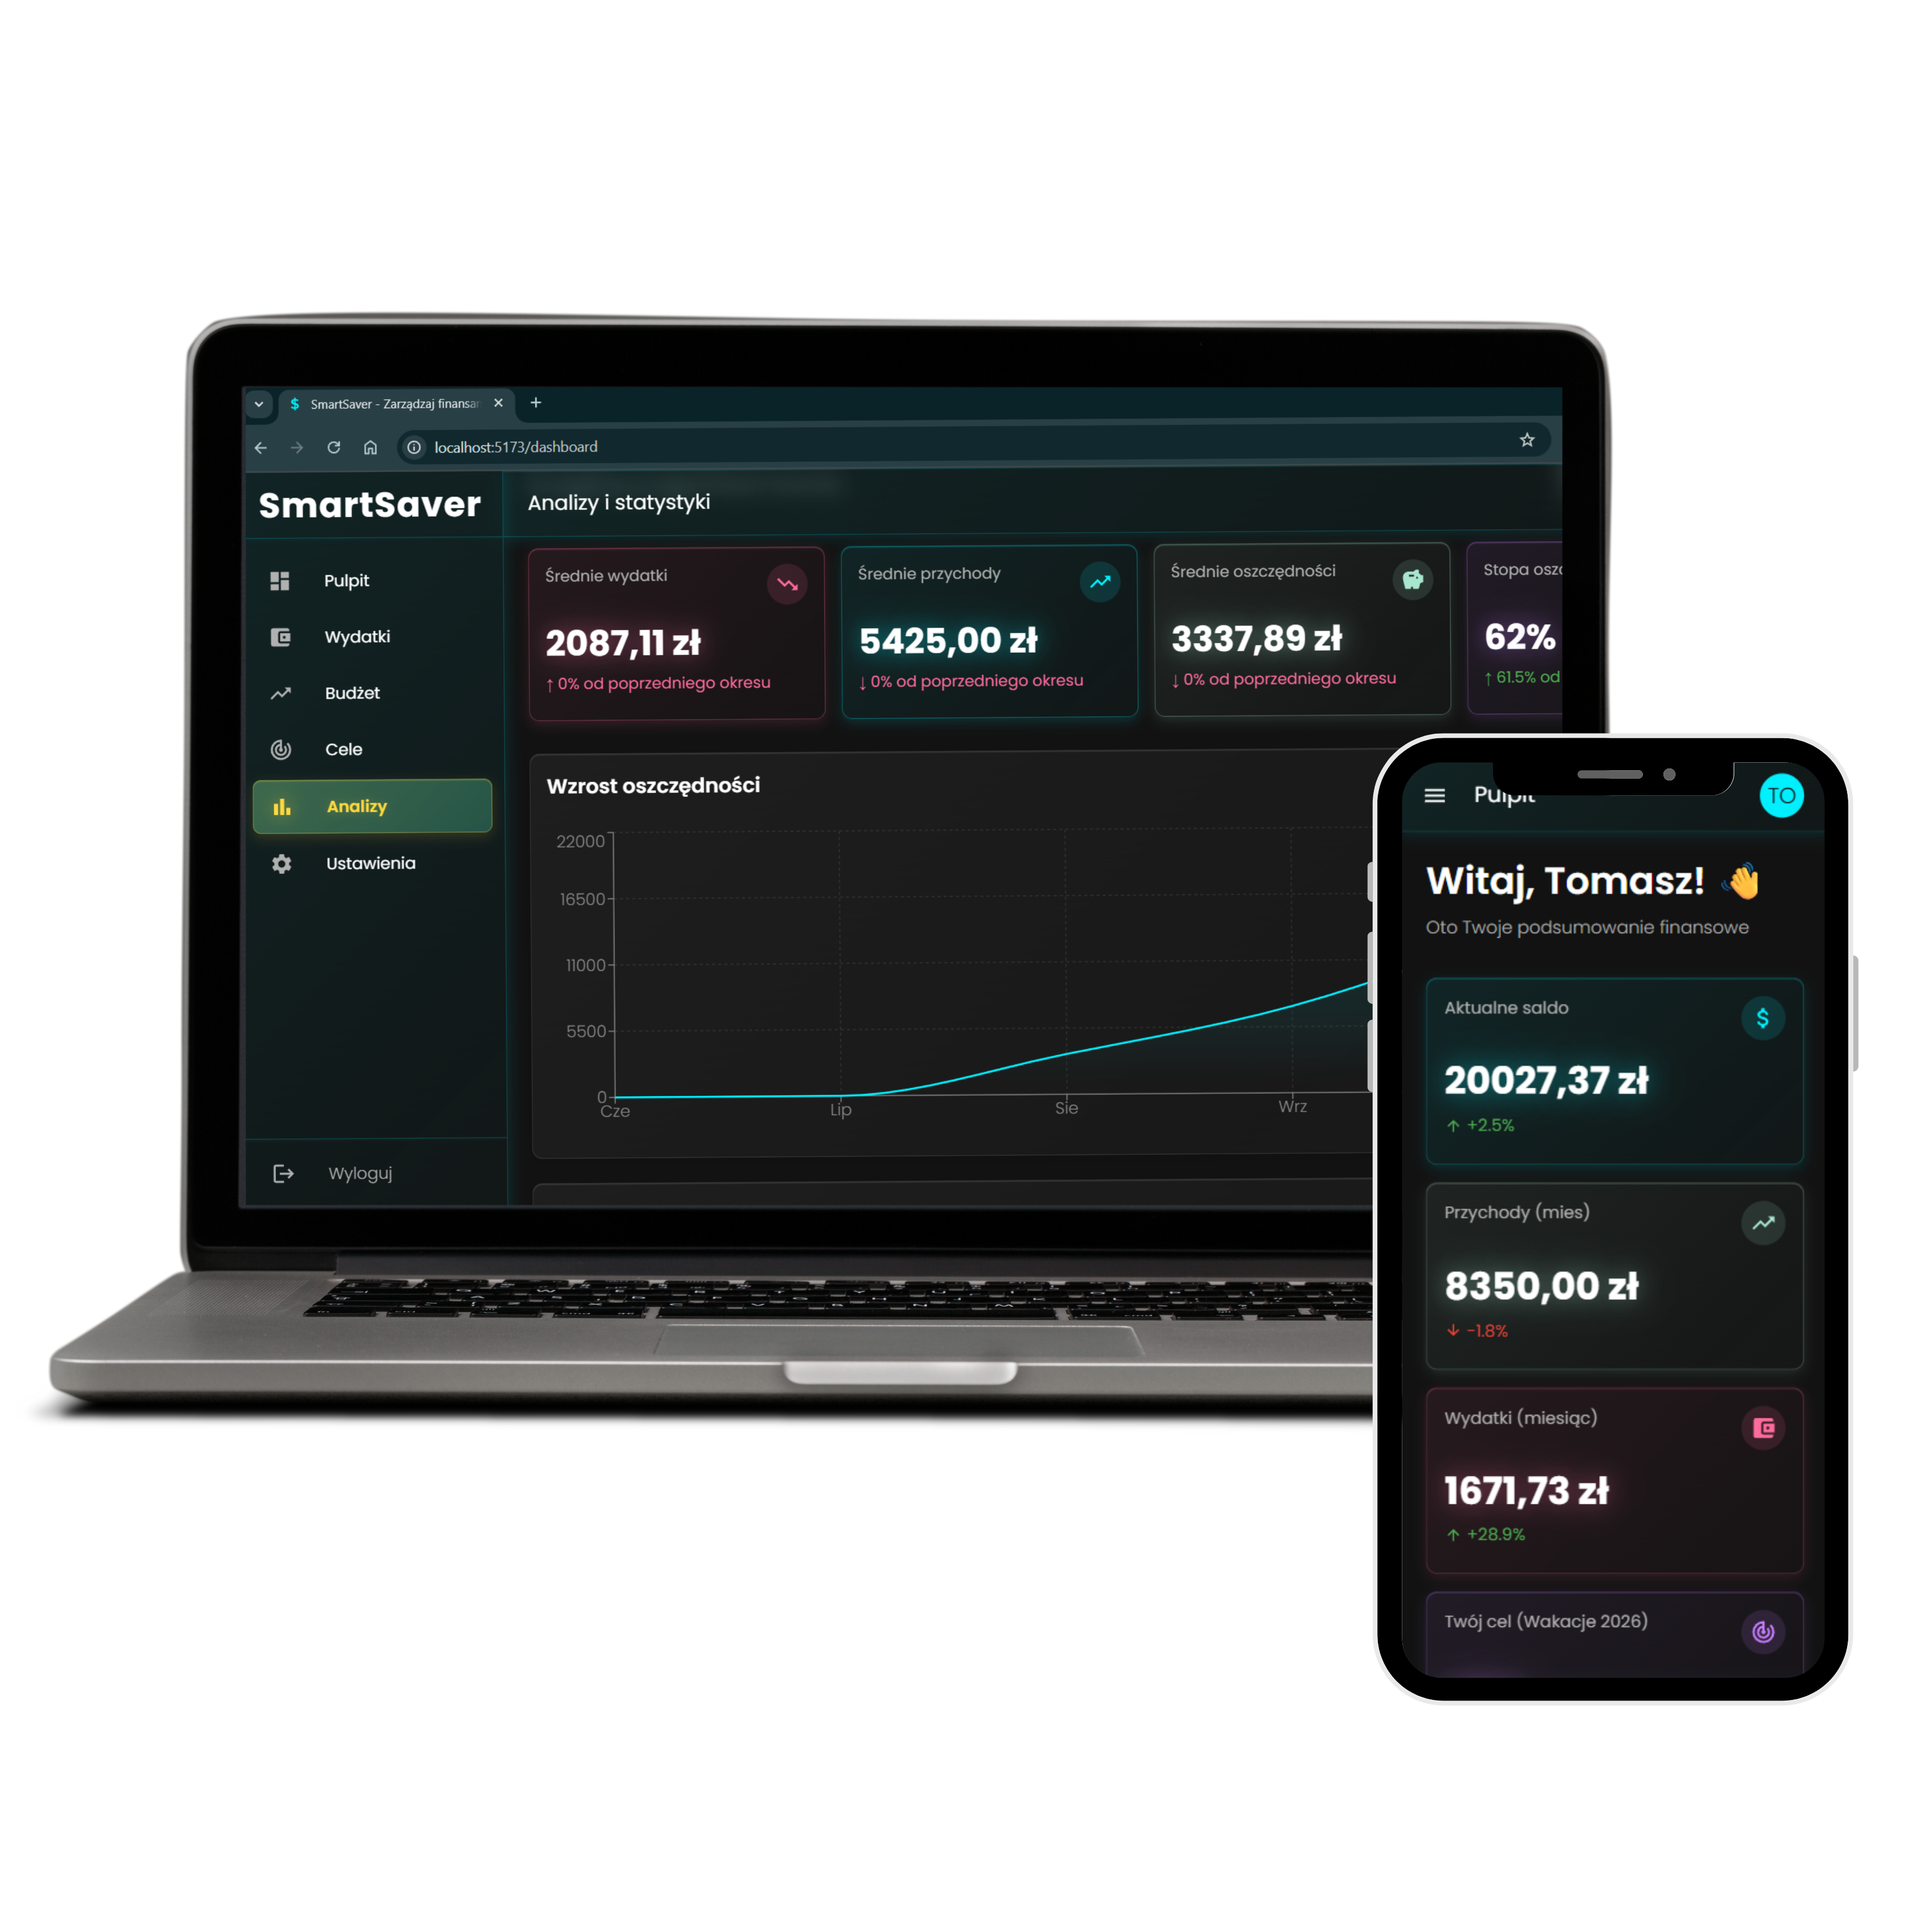
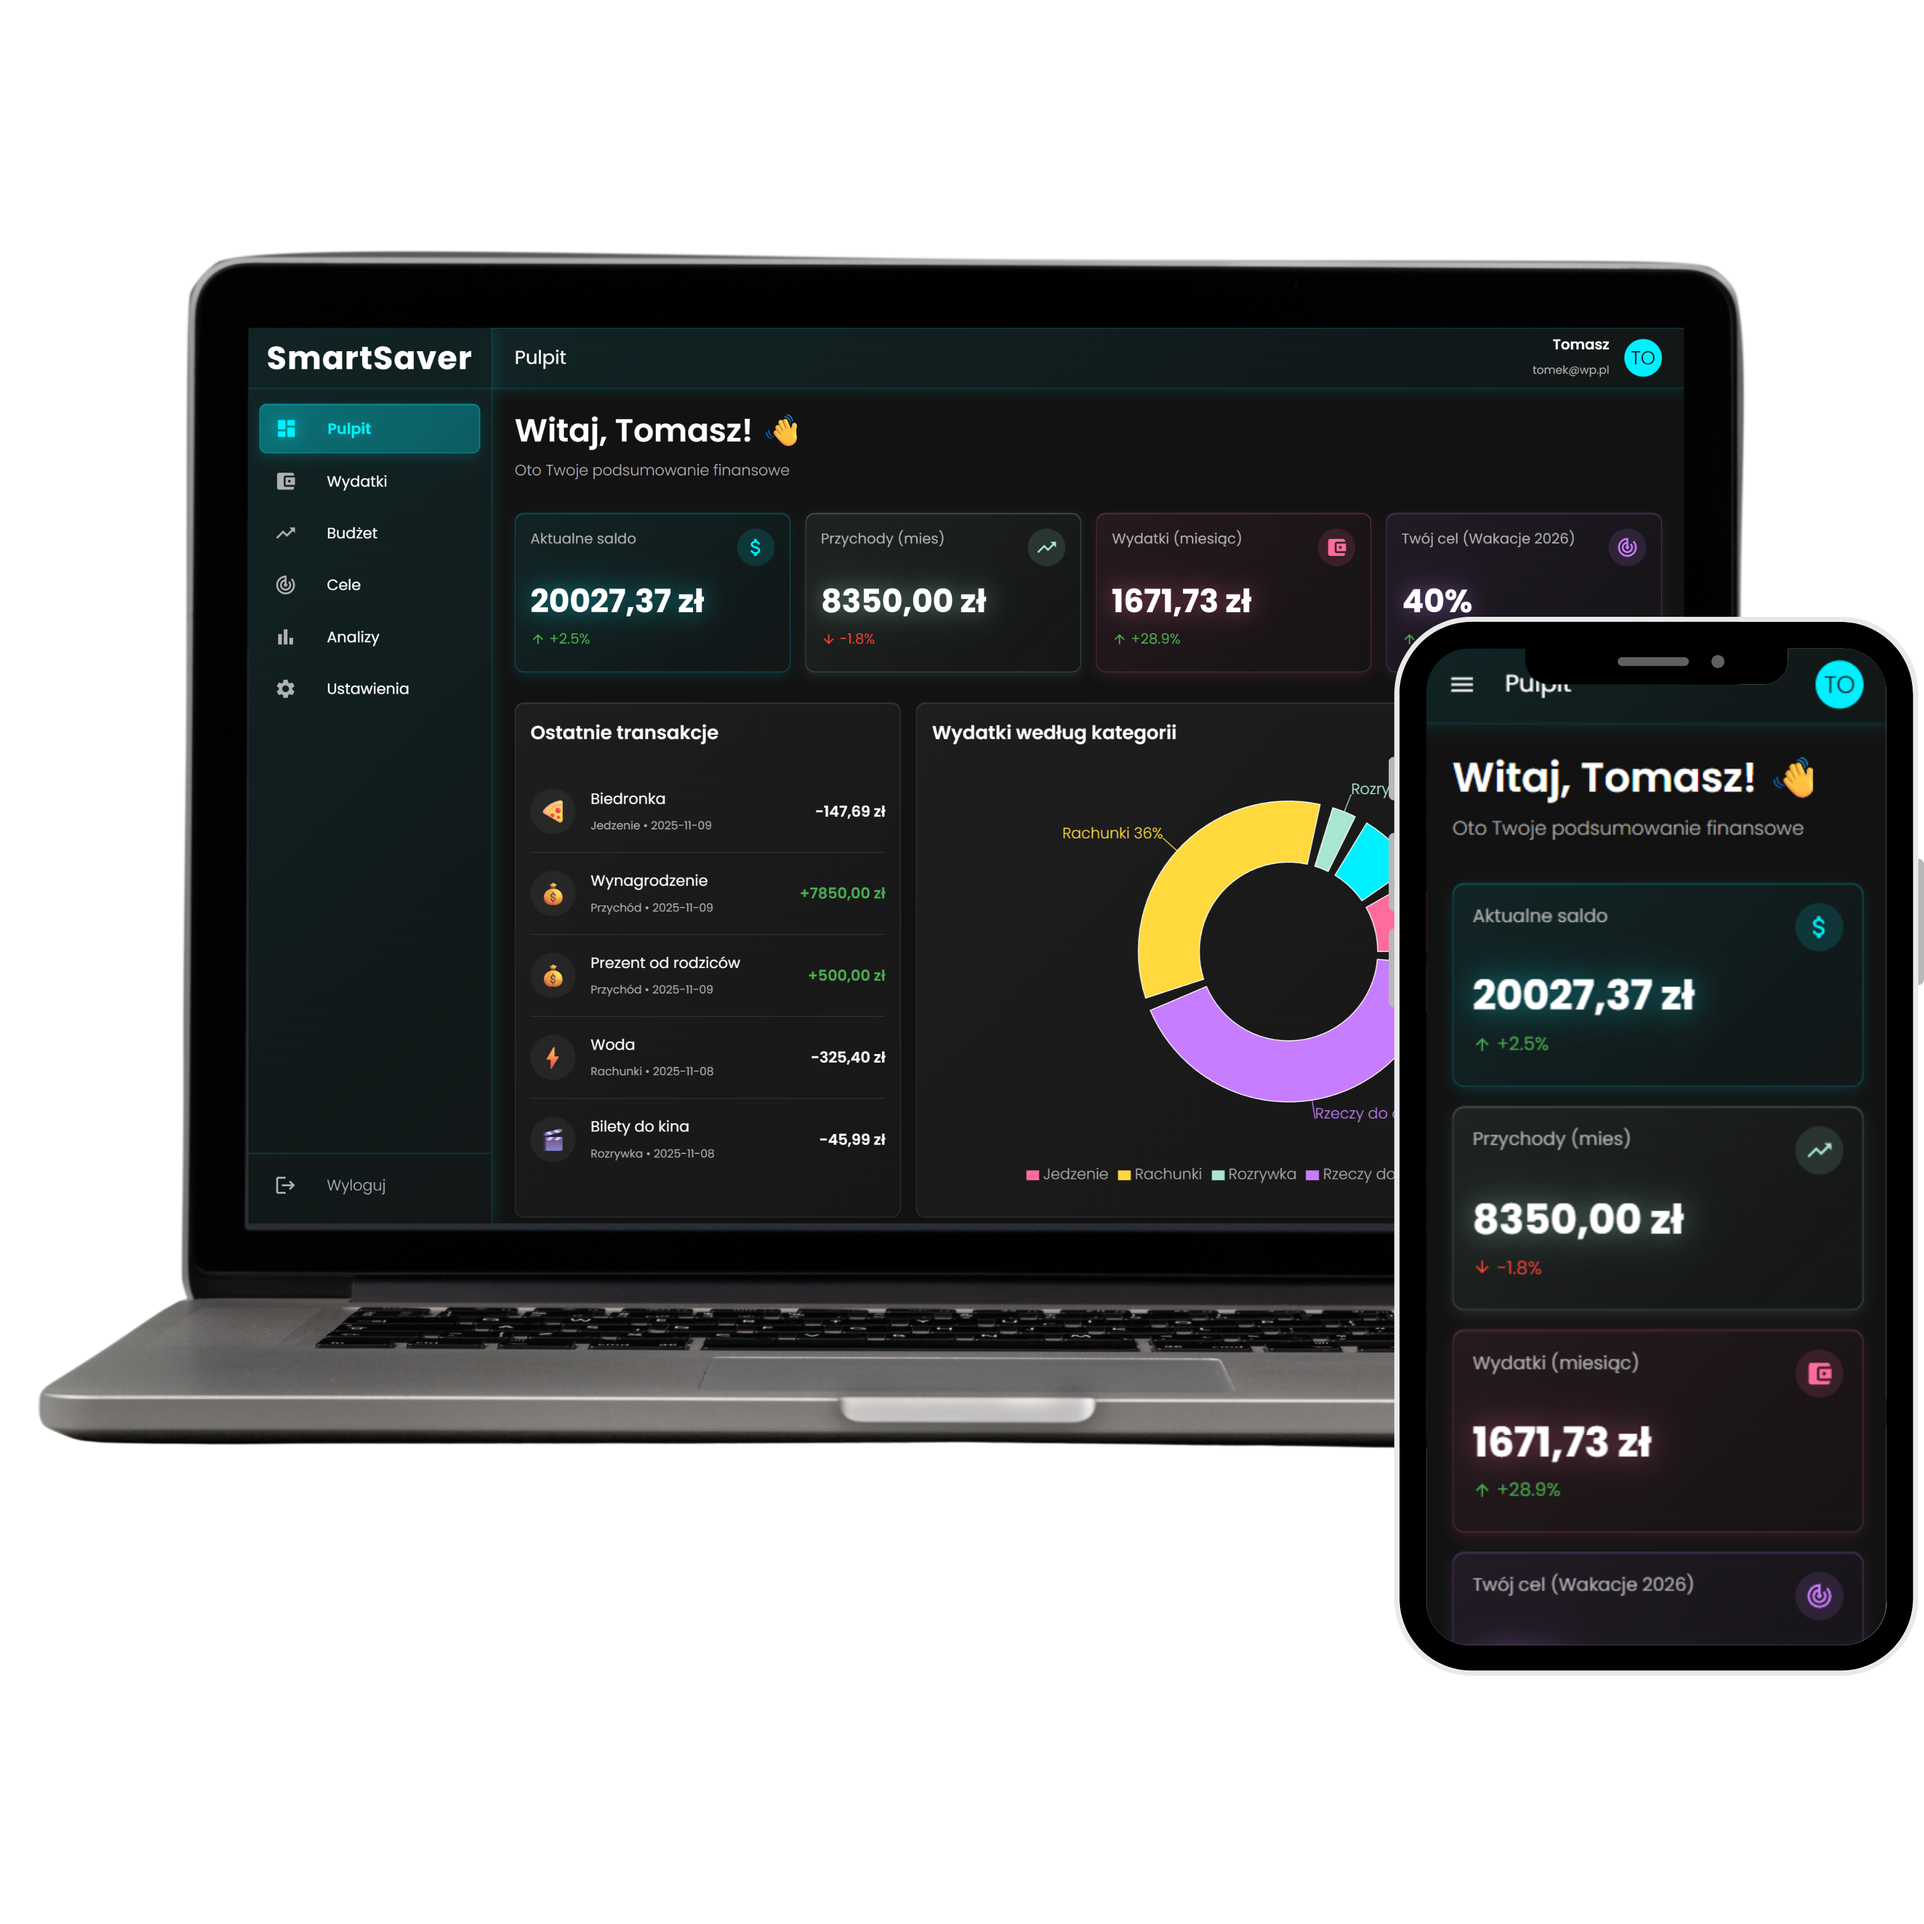
Update images in landingpage

Changed region(s): [[0.0, 0.1244, 1.0, 0.9022], [0.28, 0.4978, 0.3733, 0.5911], [0.4356, 0.56, 0.4667, 0.5911]]

diff --git a/frontend/src/components/landing/HowItWorksSection.jsx b/frontend/src/components/landing/HowItWorksSection.jsx
@@ -5,7 +5,8 @@ import { motion } from 'framer-motion';
 import { useNavigate } from 'react-router-dom';
 
 // Importuj obrazek
-import macbookImage from '../../assets/images/macbook.png';
+import howitworks1 from '../../assets/images/howitworks1.png';
+import howitworks2 from '../../assets/images/howitworks2.png';
 
 const HowItWorksSection = () => {
     const navigate = useNavigate();
@@ -109,19 +110,13 @@ const HowItWorksSection = () => {
                     >
                         <Box
                             component="img"
-                            src={macbookImage}
+                            src={howitworks1}
                             alt="SmartSaver Dashboard"
                             sx={{
-                                maxWidth: { xs: '100%', sm: '400px', md: '450px' },
+                                maxWidth: { xs: '100%', sm: '400px', md: '400px' },
                                 width: '100%',
                                 height: 'auto',
                                 opacity: 0.85,
-                                filter: 'drop-shadow(0 10px 30px rgba(0, 240, 255, 0.15))',
-                                transition: 'transform 0.3s ease, opacity 0.3s ease',
-                                '&:hover': {
-                                    transform: 'scale(1.03)',
-                                    opacity: 1,
-                                },
                             }}
                         />
                     </Box>
@@ -163,19 +158,13 @@ const HowItWorksSection = () => {
                     >
                         <Box
                             component="img"
-                            src={macbookImage}
+                            src={howitworks2}
                             alt="SmartSaver Analytics"
                             sx={{
-                                maxWidth: { xs: '100%', sm: '400px', md: '450px' },
+                                maxWidth: { xs: '100%', sm: '400px', md: '400px' },
                                 width: '100%',
                                 height: 'auto',
                                 opacity: 0.85,
-                                filter: 'drop-shadow(0 10px 30px rgba(0, 240, 255, 0.15))',
-                                transition: 'transform 0.3s ease, opacity 0.3s ease',
-                                '&:hover': {
-                                    transform: 'scale(1.03)',
-                                    opacity: 1,
-                                },
                             }}
                         />
                     </Box>

diff --git a/frontend/src/components/landing/HeroSection.jsx b/frontend/src/components/landing/HeroSection.jsx
@@ -157,16 +157,10 @@ const HeroSection = () => {
                         src={HeroImage}
                         alt="SmartSaver app mockups"
                         sx={{
-                            maxWidth: { xs: '280px', sm: '350px', md: '400px' },
+                            maxWidth: { xs: '280px', sm: '350px', md: '600px' },
                             width: '100%',
                             height: 'auto',
                             opacity: 0.85,
-                            filter: 'drop-shadow(0 10px 30px rgba(0, 240, 255, 0.2))',
-                            transition: 'transform 0.3s ease, opacity 0.3s ease',
-                            '&:hover': {
-                                transform: 'scale(1.05)',
-                                opacity: 1,
-                            },
                         }}
                     />
                 </Box>

diff --git a/frontend/src/views/SignUpPage.jsx b/frontend/src/views/SignUpPage.jsx
@@ -478,7 +478,6 @@ const handleSubmit = async (e) => {
                                     height: 'auto',
                                     borderRadius: 2,
                                     objectFit: 'contain',
-                                    filter: 'drop-shadow(0 10px 30px rgba(0, 240, 255, 0.2))',
                                 }}
                             />
                         </Box>

diff --git a/frontend/src/views/SignInPage.jsx b/frontend/src/views/SignInPage.jsx
@@ -343,7 +343,6 @@ const SignInPage = () => {
                                     height: 'auto',
                                     borderRadius: 2,
                                     objectFit: 'contain',
-                                    filter: 'drop-shadow(0 10px 30px rgba(0, 240, 255, 0.2))',
                                 }}
                             />
                         </Box>
